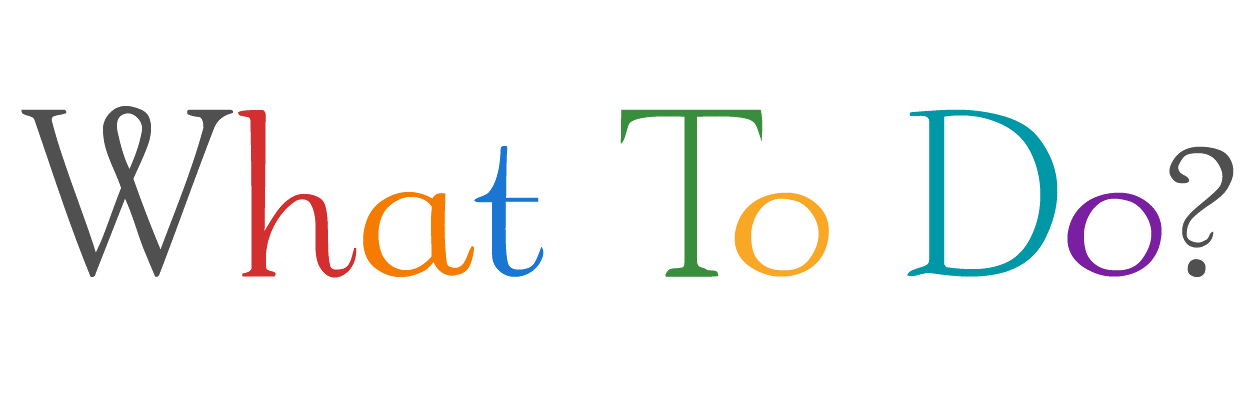
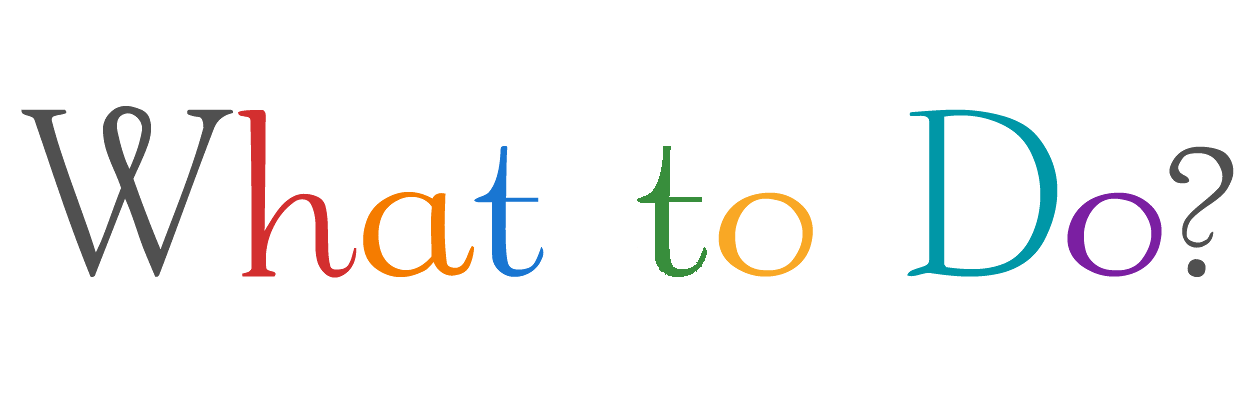
What to Do name change

Changed region(s): [[0.4992, 0.27, 0.6864, 0.69]]

diff --git a/index.html b/index.html
@@ -82,7 +82,7 @@
                         <a class = "page-scroll" href = "#soulEmission">Soul Emission</a>
                     </li>
                     <li>
-                        <a class = "page-scroll" href = "#whatToDo">What To Do</a> 
+                        <a class = "page-scroll" href = "#whatToDo">What to Do</a> 
                     </li>
                     <li>
                         <a class = "page-scroll" href = "#contact">Contact</a>
@@ -162,16 +162,16 @@
         </div>
     </section>
 
-    <!-- What To Do Section -->
+    <!-- What to Do Section -->
    
     <section id = "whatToDo" class = "content-section text-center">
     	<div class = "what-to-do">
         	<div class = "container">
-                <img id = "largePic" class = "hvr-wobble-vertical" src = "media/What To Do.png" width = "500" height ="160" Target = "_blank">
+                <img id = "largePic" class = "hvr-wobble-vertical" src = "media/What to Do.png" width = "500" height ="160" Target = "_blank">
                 <div id = "black">
                 <div id = "justify">
                 	<h3>What is it?</h3>
-                    <p>What To Do is an Android app that is modeled after the physical notepad, it allows you to write down what's important with minimal effort and lets you move on with your day. It takes the information you write down and neatly presents it in a notification for you to see in any situation.</p>
+                    <p>What to Do is an Android app that is modeled after the physical notepad, it allows you to write down what's important with minimal effort and lets you move on with your day. It takes the information you write down and neatly presents it in a notification for you to see in any situation.</p>
                     <h3>Features</h3>
                     <p>
                     Clear All<br>
